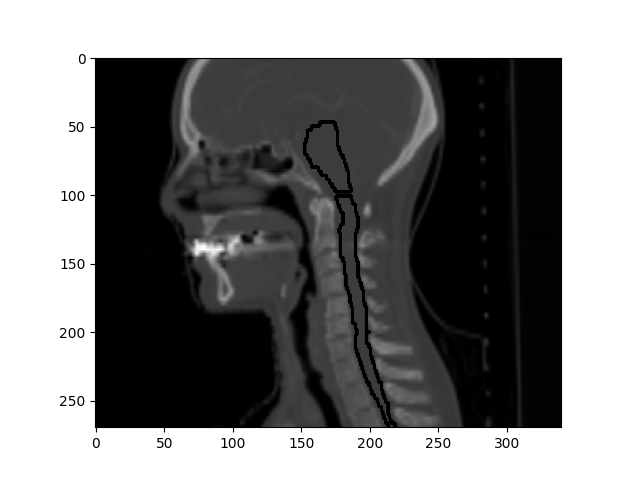
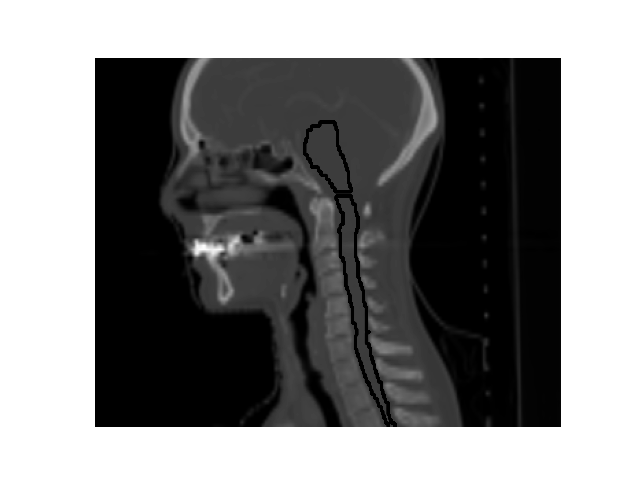
corrected images

diff --git a/Python Code/CW.py b/Python Code/CW.py
@@ -46,8 +46,10 @@ def import_overlay(filepath, brain, spine, image):
     mi2, ma2 = np.floor(np.nanmin(spine_mask)), np.ceil(np.nanmax(spine_mask))
     levels2 = np.arange(mi2, ma2+2, 2)
 
-    ax_im = plt.figure(figsize=(12,12))
+    ax_im = plt.figure(figsize=(12,12), frameon=False)
     ax_im, ax = plt.subplots()
+    ax.set_axis_off()
+    ax_im.add_axes(ax)
     ax.imshow(source_img, cmap='gray')
     ax.contour(brain_mask, levels=levels, linewidths=1, colors=['black'])
     ax.contour(spine_mask, levels=levels2, linewidths=1, colors=['black'])
@@ -68,7 +70,6 @@ test_2 = import_overlay(test_data_str, 'test_2_BRAIN_STEM.png', 'test_2_SPINAL_C
 test_3 = import_overlay(test_data_str, 'test_3_BRAIN_STEM.png', 'test_3_SPINAL_CORD.png', 'test_3.png')
 test_4 = import_overlay(test_data_str, 'test_4_BRAIN_STEM.png', 'test_4_SPINAL_CORD.png', 'test_4.png')
 test_5 = import_overlay(test_data_str, 'test_5_BRAIN_STEM.png', 'test_5_SPINAL_CORD.png', 'test_5.png')
-
 
 # %%
 # atlas data
